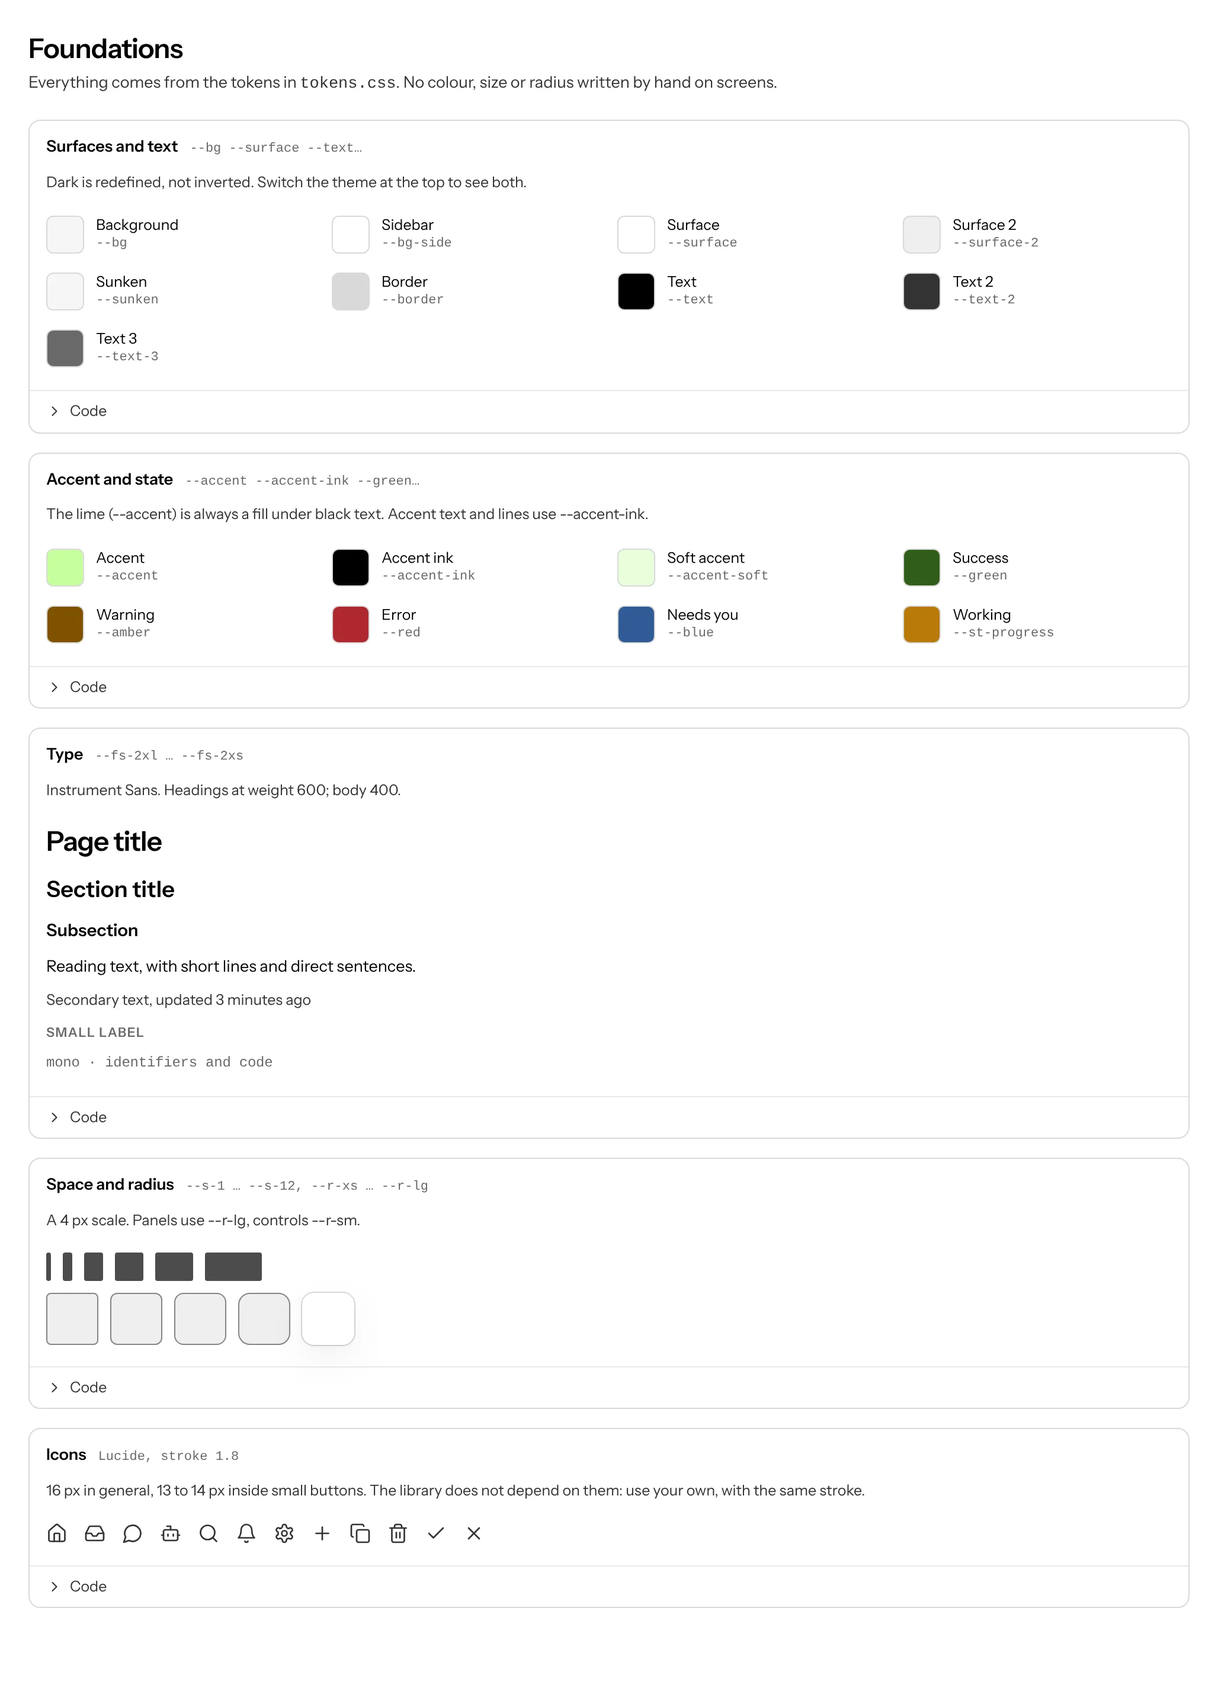
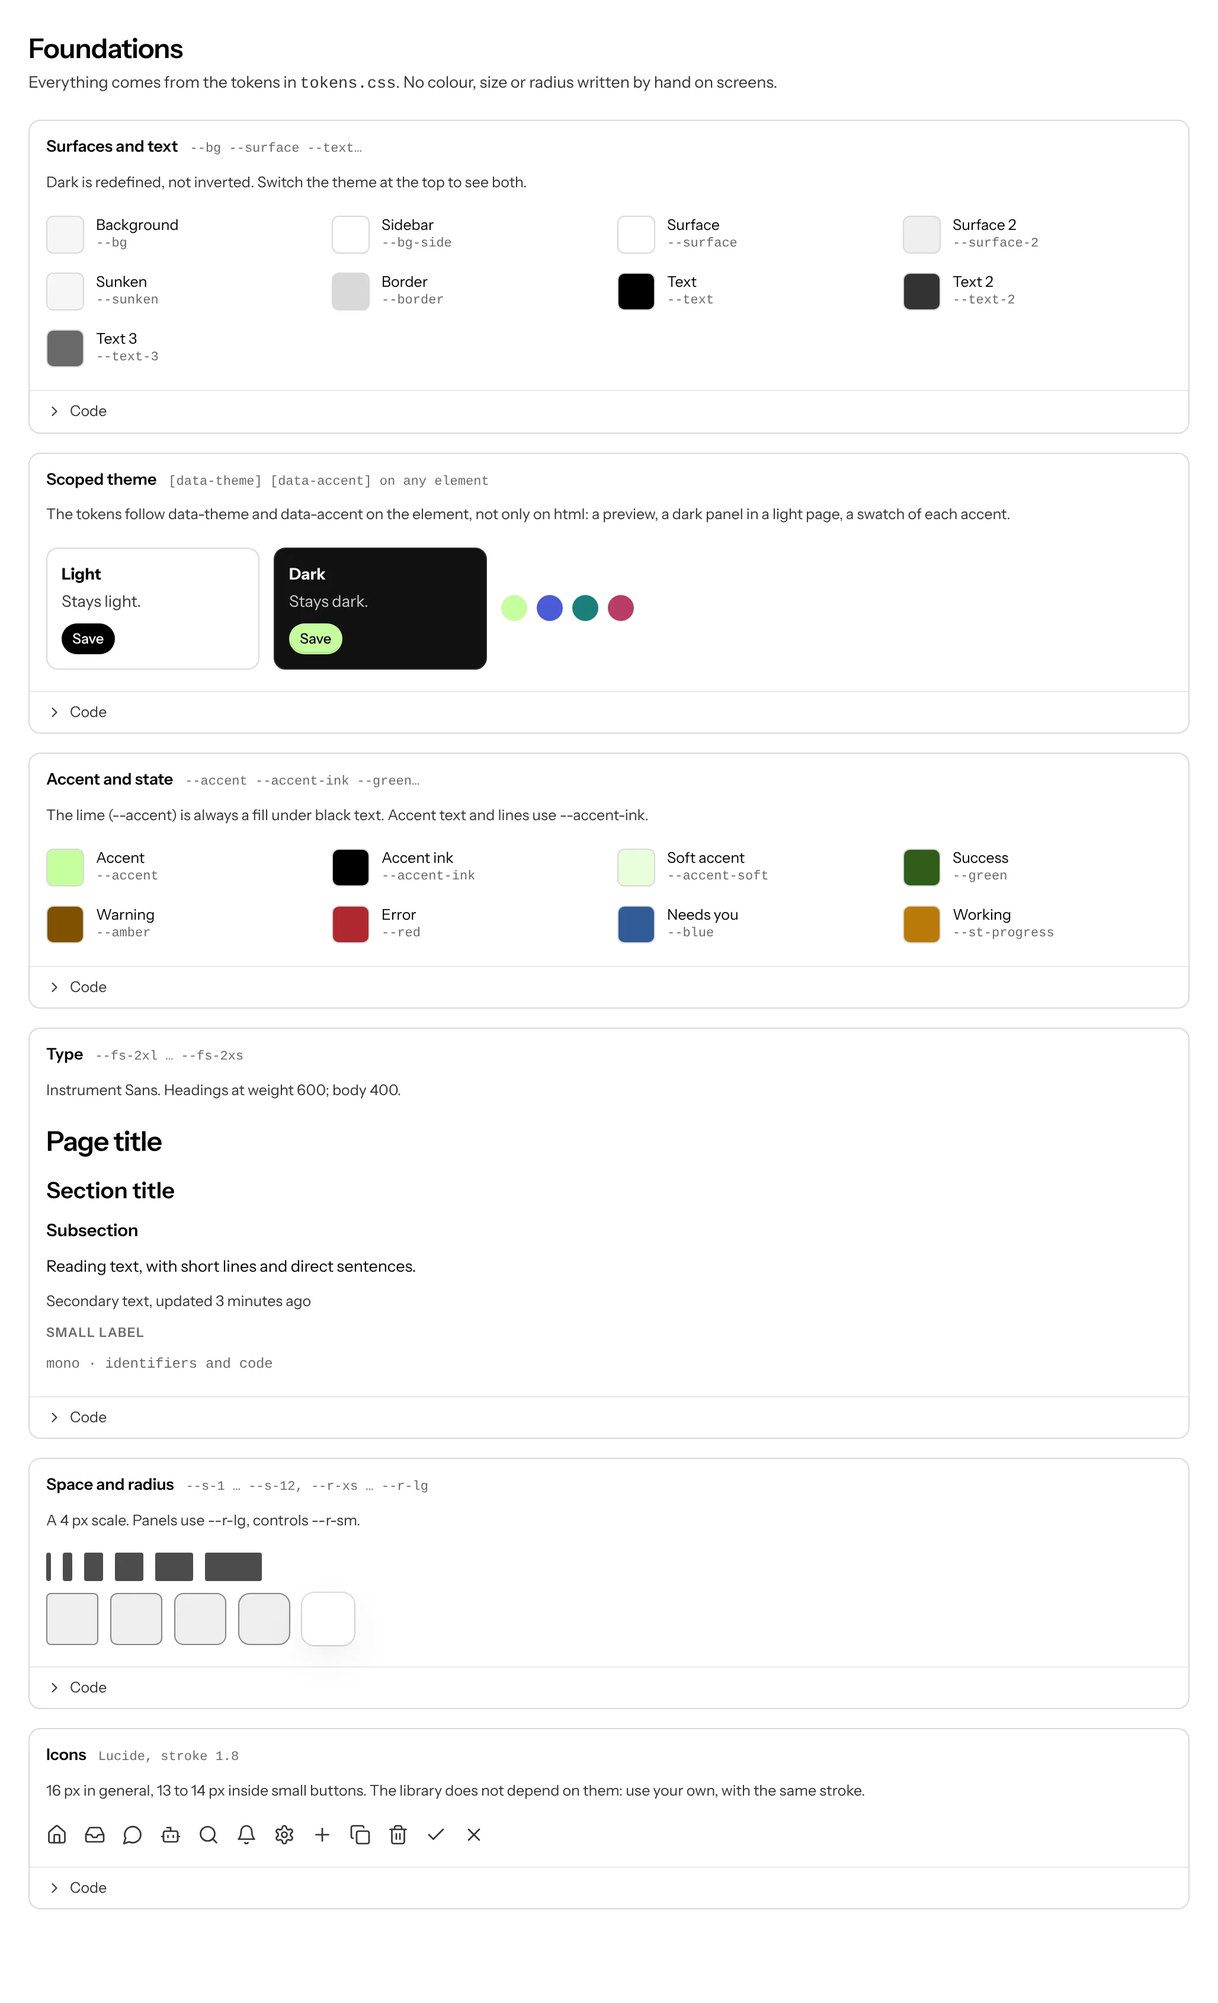
Scoped theme and accent; audit accepts .prog, grids and diff tables (0.2.1)
data-theme and data-accent work on any element, not only on html, so a theme preview, a dark panel in a light page or a row of accent swatches is drawn from the tokens. Audit: R08 compares colours inside such an element with that theme's tokens; R06 accepts role=progressbar on .prog; R15 skips table[role=grid] and table[role=presentation]. Catalog example on Foundations.

diff --git a/site/foundations.html b/site/foundations.html
@@ -51,6 +51,28 @@
   &lt;div class="ex-tok"&gt;&lt;i style="--c:var(--text-3)"&gt;&lt;/i&gt;&lt;span&gt;Text 3&lt;code&gt;--text-3&lt;/code&gt;&lt;/span&gt;&lt;/div&gt;
 &lt;/div&gt;</code></pre></details></section>
 
+  <section class="ex" id="scoped-theme"><div class="ex-h"><h3>Scoped theme</h3><code class="faint">[data-theme] [data-accent] on any element</code><p>The tokens follow data-theme and data-accent on the element, not only on html: a preview, a dark panel in a light page, a swatch of each accent.</p></div><div class="ex-demo ">
+  <div class="row" style="gap:12px;flex-wrap:wrap;align-items:stretch">
+    <div class="panel" data-theme="light" style="width:180px;padding:12px;background:var(--surface);color:var(--text)"><b>Light</b><p class="muted" style="margin:4px 0 8px">Stays light.</p><span class="btn btn-sm btn-primary">Save</span></div>
+    <div class="panel" data-theme="dark" style="width:180px;padding:12px;background:var(--surface);color:var(--text)"><b>Dark</b><p class="muted" style="margin:4px 0 8px">Stays dark.</p><span class="btn btn-sm btn-primary">Save</span></div>
+    <div class="row" style="gap:8px;align-items:center">
+      <span data-accent="hypercube" style="display:inline-block;width:22px;height:22px;border-radius:50%;background:var(--acc-l)" role="img" aria-label="Hypercube"></span>
+      <span data-accent="indigo" style="display:inline-block;width:22px;height:22px;border-radius:50%;background:var(--acc-l)" role="img" aria-label="Indigo"></span>
+      <span data-accent="teal" style="display:inline-block;width:22px;height:22px;border-radius:50%;background:var(--acc-l)" role="img" aria-label="Teal"></span>
+      <span data-accent="rose" style="display:inline-block;width:22px;height:22px;border-radius:50%;background:var(--acc-l)" role="img" aria-label="Rose"></span>
+    </div>
+  </div>
+  </div><details class="ex-code"><summary><svg class="i" width="14" height="14" viewBox="0 0 24 24" fill="none" stroke="currentColor" stroke-width="1.8" stroke-linecap="round" stroke-linejoin="round" aria-hidden="true"><path d="m9 18 6-6-6-6"/></svg>Code</summary><div class="row" style="padding:0 14px 6px"><span class="sp"></span><button class="btn btn-xs btn-ghost" data-copy>Copy</button></div><pre><code>&lt;div class="row" style="gap:12px;flex-wrap:wrap;align-items:stretch"&gt;
+  &lt;div class="panel" data-theme="light" style="width:180px;padding:12px;background:var(--surface);color:var(--text)"&gt;&lt;b&gt;Light&lt;/b&gt;&lt;p class="muted" style="margin:4px 0 8px"&gt;Stays light.&lt;/p&gt;&lt;span class="btn btn-sm btn-primary"&gt;Save&lt;/span&gt;&lt;/div&gt;
+  &lt;div class="panel" data-theme="dark" style="width:180px;padding:12px;background:var(--surface);color:var(--text)"&gt;&lt;b&gt;Dark&lt;/b&gt;&lt;p class="muted" style="margin:4px 0 8px"&gt;Stays dark.&lt;/p&gt;&lt;span class="btn btn-sm btn-primary"&gt;Save&lt;/span&gt;&lt;/div&gt;
+  &lt;div class="row" style="gap:8px;align-items:center"&gt;
+    &lt;span data-accent="hypercube" style="display:inline-block;width:22px;height:22px;border-radius:50%;background:var(--acc-l)" role="img" aria-label="Hypercube"&gt;&lt;/span&gt;
+    &lt;span data-accent="indigo" style="display:inline-block;width:22px;height:22px;border-radius:50%;background:var(--acc-l)" role="img" aria-label="Indigo"&gt;&lt;/span&gt;
+    &lt;span data-accent="teal" style="display:inline-block;width:22px;height:22px;border-radius:50%;background:var(--acc-l)" role="img" aria-label="Teal"&gt;&lt;/span&gt;
+    &lt;span data-accent="rose" style="display:inline-block;width:22px;height:22px;border-radius:50%;background:var(--acc-l)" role="img" aria-label="Rose"&gt;&lt;/span&gt;
+  &lt;/div&gt;
+&lt;/div&gt;</code></pre></details></section>
+
   <section class="ex" id="accent-and-state"><div class="ex-h"><h3>Accent and state</h3><code class="faint">--accent --accent-ink --green…</code><p>The lime (--accent) is always a fill under black text. Accent text and lines use --accent-ink.</p></div><div class="ex-demo ">
   <div class="ex-grid">
     <div class="ex-tok"><i style="--c:var(--accent)"></i><span>Accent<code>--accent</code></span></div>

diff --git a/audit/audit.js b/audit/audit.js
@@ -42,7 +42,10 @@
   };
 
   // every colour token the page defines on :root, resolved to rgb in the current theme
-  function palette() {
+  const palettes = new Map();
+  // the tokens' colours as the browser resolves them in `scope` (the body, or an element with its own data-theme)
+  function palette(scope = document.body) {
+    if (palettes.has(scope)) return palettes.get(scope);
     const names = new Set();
     const walk = rules => {
       for (const r of rules) {
@@ -56,7 +59,7 @@
     }
     const probe = document.createElement('i');
     probe.style.display = 'none';
-    document.body.append(probe);
+    scope.append(probe);
     const set = new Set(['0,0,0:0']);
     for (const n of names) {
       probe.style.color = '';
@@ -65,6 +68,7 @@
       if (probe.style.color && v) set.add(channels(v));
     }
     probe.remove();
+    palettes.set(scope, { set, count: names.size });
     return { set, count: names.size };
   }
 
@@ -128,7 +132,7 @@
       const s = getComputedStyle(el);
       if (s.animationName !== 'none' && s.animationIterationCount === 'infinite' && /rotate|spin/i.test(s.animationName + ' ' + s.transform) && shown(el)) spin.push(`${name(el)}: endless ${s.animationName} animation`);
     }
-    if (document.querySelector('[role="progressbar"]:not(.progress):not(.hc-loader)')) spin.push('role="progressbar" outside .progress');
+    if (document.querySelector('[role="progressbar"]:not(.prog):not(.progress):not(.hc-loader)')) spin.push('role="progressbar" outside .prog');
     add('R06', 'error', 'Loading uses only .hc-loader (or .is-loading / .is-busy)', spin);
 
     // R07 no literal colours in style attributes
@@ -143,10 +147,11 @@
     // R08 every colour on screen comes from a token
     const off = [];
     if (loaded) {
-      const { set } = palette();
       const seen = new Set();
       for (const el of all('body *')) {
         if (!shown(el) || el.closest(TINTED)) continue;
+        const scope = el.closest('[data-theme], [data-accent]');
+        const { set } = palette(scope && scope !== document.documentElement ? scope : document.body);
         const s = getComputedStyle(el);
         const check = (prop, v) => {
           const c = channels(v);
@@ -217,6 +222,7 @@
     // R15 tables
     const tb = [];
     for (const t of all('table')) {
+      if (t.matches('[role="grid"], [role="presentation"]')) continue; // an editable grid, or code laid out in a table (a diff)
       if (!t.classList.contains('hc-table')) { tb.push(`${name(t)}: use table.hc-table`); continue; }
       const cell = t.querySelector('tbody td:not([data-label]):not(.hc-t-main):not([colspan])');
       if (cell) tb.push(`${name(t)}: td without data-label (phones show it as a card)`);

diff --git a/site/hc/tokens.css b/site/hc/tokens.css
@@ -12,7 +12,8 @@
   font-style: normal;
   font-display: swap;
 }
-:root {
+:root,
+[data-theme='light'] {
   /* surfaces */
   --bg: #f6f6f6;
   --bg-side: #ffffff;
@@ -186,7 +187,7 @@
     color-scheme: dark;
   }
 }
-:root[data-theme='dark'] {
+[data-theme='dark'] {
   --bg: #0a0a0a;
   --bg-side: #0a0a0a;
   --surface: #121212;
@@ -234,13 +235,25 @@
   --shadow-drag: 0 18px 40px -10px rgba(0, 0, 0, 0.7), 0 0 0 1px var(--border-strong);
   color-scheme: dark;
 }
+/* The theme and the accent follow data-theme and data-accent on <html>, or on any element: a card, a preview or a panel
+   can be light, dark or of another accent on its own, with the same tokens. */
+[data-accent='hypercube'] {
+  --acc-l: #c7ff9f;
+  --acc-d: #c7ff9f;
+  --acc-ink-l: #000000;
+  --acc-ink-d: #c7ff9f;
+  --on-acc-l: #000000;
+  --on-acc-d: #000000;
+  --acc-soft-l: #e9ffdc;
+  --acc-soft-d: color-mix(in srgb, #c7ff9f 14%, transparent);
+}
 /* accent variants (coloured accents keep white text on the fill and use the colour itself as ink) */
-:root[data-accent='indigo'],
-:root[data-accent='blue'],
-:root[data-accent='violet'],
-:root[data-accent='teal'],
-:root[data-accent='rose'],
-:root[data-accent='graphite'] {
+[data-accent='indigo'],
+[data-accent='blue'],
+[data-accent='violet'],
+[data-accent='teal'],
+[data-accent='rose'],
+[data-accent='graphite'] {
   --acc-ink-l: var(--acc-l);
   --acc-ink-d: var(--acc-d);
   --on-acc-l: #ffffff;
@@ -248,27 +261,27 @@
   --acc-soft-l: color-mix(in srgb, var(--acc-l) 10%, transparent);
   --acc-soft-d: color-mix(in srgb, var(--acc-d) 12%, transparent);
 }
-:root[data-accent='indigo'] {
+[data-accent='indigo'] {
   --acc-l: #4b5bd6;
   --acc-d: #8e9af3;
 }
-:root[data-accent='blue'] {
+[data-accent='blue'] {
   --acc-l: #2f6cd4;
   --acc-d: #74a7f0;
 }
-:root[data-accent='violet'] {
+[data-accent='violet'] {
   --acc-l: #7348cc;
   --acc-d: #ae93f0;
 }
-:root[data-accent='teal'] {
+[data-accent='teal'] {
   --acc-l: #1a7f7a;
   --acc-d: #5cc4ba;
 }
-:root[data-accent='rose'] {
+[data-accent='rose'] {
   --acc-l: #b93d68;
   --acc-d: #ec8dae;
 }
-:root[data-accent='graphite'] {
+[data-accent='graphite'] {
   --acc-l: #34332f;
   --acc-d: #d9d6cf;
 }

diff --git a/src/tokens.css b/src/tokens.css
@@ -12,7 +12,8 @@
   font-style: normal;
   font-display: swap;
 }
-:root {
+:root,
+[data-theme='light'] {
   /* surfaces */
   --bg: #f6f6f6;
   --bg-side: #ffffff;
@@ -186,7 +187,7 @@
     color-scheme: dark;
   }
 }
-:root[data-theme='dark'] {
+[data-theme='dark'] {
   --bg: #0a0a0a;
   --bg-side: #0a0a0a;
   --surface: #121212;
@@ -234,13 +235,25 @@
   --shadow-drag: 0 18px 40px -10px rgba(0, 0, 0, 0.7), 0 0 0 1px var(--border-strong);
   color-scheme: dark;
 }
+/* The theme and the accent follow data-theme and data-accent on <html>, or on any element: a card, a preview or a panel
+   can be light, dark or of another accent on its own, with the same tokens. */
+[data-accent='hypercube'] {
+  --acc-l: #c7ff9f;
+  --acc-d: #c7ff9f;
+  --acc-ink-l: #000000;
+  --acc-ink-d: #c7ff9f;
+  --on-acc-l: #000000;
+  --on-acc-d: #000000;
+  --acc-soft-l: #e9ffdc;
+  --acc-soft-d: color-mix(in srgb, #c7ff9f 14%, transparent);
+}
 /* accent variants (coloured accents keep white text on the fill and use the colour itself as ink) */
-:root[data-accent='indigo'],
-:root[data-accent='blue'],
-:root[data-accent='violet'],
-:root[data-accent='teal'],
-:root[data-accent='rose'],
-:root[data-accent='graphite'] {
+[data-accent='indigo'],
+[data-accent='blue'],
+[data-accent='violet'],
+[data-accent='teal'],
+[data-accent='rose'],
+[data-accent='graphite'] {
   --acc-ink-l: var(--acc-l);
   --acc-ink-d: var(--acc-d);
   --on-acc-l: #ffffff;
@@ -248,27 +261,27 @@
   --acc-soft-l: color-mix(in srgb, var(--acc-l) 10%, transparent);
   --acc-soft-d: color-mix(in srgb, var(--acc-d) 12%, transparent);
 }
-:root[data-accent='indigo'] {
+[data-accent='indigo'] {
   --acc-l: #4b5bd6;
   --acc-d: #8e9af3;
 }
-:root[data-accent='blue'] {
+[data-accent='blue'] {
   --acc-l: #2f6cd4;
   --acc-d: #74a7f0;
 }
-:root[data-accent='violet'] {
+[data-accent='violet'] {
   --acc-l: #7348cc;
   --acc-d: #ae93f0;
 }
-:root[data-accent='teal'] {
+[data-accent='teal'] {
   --acc-l: #1a7f7a;
   --acc-d: #5cc4ba;
 }
-:root[data-accent='rose'] {
+[data-accent='rose'] {
   --acc-l: #b93d68;
   --acc-d: #ec8dae;
 }
-:root[data-accent='graphite'] {
+[data-accent='graphite'] {
   --acc-l: #34332f;
   --acc-d: #d9d6cf;
 }

diff --git a/catalog/pages/foundations.html b/catalog/pages/foundations.html
@@ -16,6 +16,19 @@
   </div>
   <!-- /ex -->
 
+  <!-- ex: Scoped theme | [data-theme] [data-accent] on any element | The tokens follow data-theme and data-accent on the element, not only on html: a preview, a dark panel in a light page, a swatch of each accent. -->
+  <div class="row" style="gap:12px;flex-wrap:wrap;align-items:stretch">
+    <div class="panel" data-theme="light" style="width:180px;padding:12px;background:var(--surface);color:var(--text)"><b>Light</b><p class="muted" style="margin:4px 0 8px">Stays light.</p><span class="btn btn-sm btn-primary">Save</span></div>
+    <div class="panel" data-theme="dark" style="width:180px;padding:12px;background:var(--surface);color:var(--text)"><b>Dark</b><p class="muted" style="margin:4px 0 8px">Stays dark.</p><span class="btn btn-sm btn-primary">Save</span></div>
+    <div class="row" style="gap:8px;align-items:center">
+      <span data-accent="hypercube" style="display:inline-block;width:22px;height:22px;border-radius:50%;background:var(--acc-l)" role="img" aria-label="Hypercube"></span>
+      <span data-accent="indigo" style="display:inline-block;width:22px;height:22px;border-radius:50%;background:var(--acc-l)" role="img" aria-label="Indigo"></span>
+      <span data-accent="teal" style="display:inline-block;width:22px;height:22px;border-radius:50%;background:var(--acc-l)" role="img" aria-label="Teal"></span>
+      <span data-accent="rose" style="display:inline-block;width:22px;height:22px;border-radius:50%;background:var(--acc-l)" role="img" aria-label="Rose"></span>
+    </div>
+  </div>
+  <!-- /ex -->
+
   <!-- ex: Accent and state | --accent --accent-ink --green… | The lime (--accent) is always a fill under black text. Accent text and lines use --accent-ink. -->
   <div class="ex-grid">
     <div class="ex-tok"><i style="--c:var(--accent)"></i><span>Accent<code>--accent</code></span></div>

diff --git a/AUDIT.md b/AUDIT.md
@@ -66,16 +66,16 @@ node scripts/audit.mjs --src ../my-app \
 | R03 | error | `<meta name="viewport" content="width=device-width, …">` | Add it to the HTML head. |
 | R04 | error | No horizontal scroll (`scrollWidth <= innerWidth`) | The details name the elements past the edge: use `.trunc`, `min-width: 0`, `.hide-m`, or the phone layout of the piece. |
 | R05 | error | App shell: `.shell` > `.side` + `.main` > `.topbar` + `.content` (or `.hc-split`); the window itself never scrolls, the shell fills it | Give `html`, `body` and the framework root `height: 100%`. |
-| R06 | error | No other spinner on screen: spinner classes, Lucide loader icons, loader GIFs, endless rotate animations, stray `role="progressbar"` | `.hc-loader`. |
+| R06 | error | No other spinner on screen: spinner classes, Lucide loader icons, loader GIFs, endless rotate animations, `role="progressbar"` outside `.prog` | `.hc-loader` for loading; `.prog` for progress. |
 | R07 | error | No literal colour in any `style=""` | `style="--c: var(--blue)"`. |
-| R08 | warn | Every text, background and border colour on screen equals a token in the current theme | Each detail is an off-token colour: swap it for a token. Category tints mixed from `--c` inside library pieces are allowed. |
+| R08 | warn | Every text, background and border colour on screen equals a token in the current theme (inside an element with its own `data-theme` or `data-accent`, a token of that theme) | Each detail is an off-token colour: swap it for a token. Category tints mixed from `--c` inside library pieces are allowed. |
 | R09 | error | Every icon-only button and link has an accessible name | `aria-label` (and `data-tip`). |
 | R10 | error | Every field has a label | `<label for>`, or `aria-label` for a search box. |
 | R11 | error | Every open `.modal` and `.drawer` has `role="dialog"`, `aria-modal="true"`, `aria-labelledby` | Add the attributes. Run the audit with each overlay open. |
 | R12 | warn | One enabled primary button per area (panel, modal, form, header, section) | Make the others `.btn-secondary` or `.btn-ghost`. |
 | R13 | warn | Icons are Lucide SVGs at stroke 1.8; no icon fonts | Swap the icon. |
 | R14 | error | No other UI library drawing on the page (`--bs-*` variables, `Mui*`, `chakra-*`, `ant-*`, `mantine-*` classes…) | Migrate the piece. |
-| R15 | error | Tables are `table.hc-table` and every body cell has `data-label` (`.hc-t-main` excepted) | Add the class and labels; phones show each row as a card. |
+| R15 | error | Tables are `table.hc-table` and every body cell has `data-label` (`.hc-t-main` excepted). An editable grid (`table[role="grid"]`, with its own keyboard model) and code laid out in a table (`table[role="presentation"]`, a diff) are not data tables and are skipped | Add the class and labels; phones show each row as a card. |
 | R16 | error | Phones: buttons in bars at least 40 px; fields at 16 px text on touch screens | Use the library's buttons and fields; do not shrink them. |
 | R17 | error | Menu: `.hc-brand` with the product logo (or `.hc-switch` when the app has workspaces, organisations or products), one `aria-current="page"`, no link that goes nowhere | Link it, or `aria-disabled="true"` for what the server does not do yet. |
 | R18 | warn | One `h1` per screen | When the design shows no title (a canvas), add `<h1 class="sr">`. |

diff --git a/AGENTS.md b/AGENTS.md
@@ -68,7 +68,7 @@ Follow the order. Do not skip the check at the end.
 | A picker of workspace, organisation, product or tenant (a `<select>`, a dropdown in the top bar, a box inside a page) | `button.hc-switch` in `.side-top` (logo, name, up-down chevrons) + `.pop.hc-switch-menu` with `.mi[role=menuitemradio]` per choice, the current one `aria-checked="true"` with `.ck`, then settings / create / invite. The "Context switcher" in `components.json` |
 | Text size, "the app looks too small/big" | `<hc-zoom class="hc-zoom">` (Adjust screen) in `.side-bot`; never change the tokens for one person's taste |
 | Menu item that does not work yet | `.sitem[aria-disabled=true]` (or remove it, if the person agrees) |
-| Table | `table.hc-table` with `td[data-label]` (turns into cards at 640 px) |
+| Table | `table.hc-table` with `td[data-label]` (turns into cards at 640 px). An editable grid keeps `role="grid"` and scrolls sideways; code in a table (a diff) is `role="presentation"` |
 | List + detail (email, chat, support) | `.hc-split` > `.hc-list` + `.hc-main` (+ `.hc-aside`) |
 | Chat | `.hc-msgs` > `.hc-msgs-in` > `.hc-m` (`.mine` for yours) + `.hc-foot` > `form.hc-composer` |
 | Settings | `.hc-set` > `.hc-set-nav` + `.hc-set-in`, rows `.hc-srow` |
@@ -164,6 +164,8 @@ Sizes in `tokens.css` are the same for everyone. When a person wants the app big
 ## Light and dark theme
 
 With nothing set, it follows the system. To force one, set `data-theme="light"` or `data-theme="dark"` on `<html>`. To keep the choice, save it in `localStorage` and apply it before drawing (see `catalog/theme.js`).
+
+The same attribute on any element scopes the theme to it: a theme preview, a dark panel in a light page, a card that stays light. `data-accent` works the same way (`hypercube`, `indigo`, `blue`, `violet`, `teal`, `rose`, `graphite`), so a row of accent swatches can be drawn from the tokens: each swatch carries its `data-accent` and paints `var(--acc-l)`.
 
 ## Checklist (before saying you are done)
 

diff --git a/CHANGELOG.md b/CHANGELOG.md
@@ -2,6 +2,8 @@
 
 ## 0.2.1 (tagged 2026-11-15)
 
+- Scoped theme and accent: `data-theme` and `data-accent` work on any element, not only on `<html>`, so a theme preview, a dark panel in a light page or a row of accent swatches is drawn from the tokens (`[data-accent='hypercube']` restores the lime). Audit R08 compares colours inside such an element with that theme's tokens. Found in Meetas, whose theme cards used literal colours.
+- Audit: R06 accepts `role="progressbar"` on the library's own `.prog`; R15 skips an editable grid (`table[role="grid"]`) and code laid out in a table (`table[role="presentation"]`, a diff), which are not data tables.
 - State dot (`.hc-ring[data-state] .hc-dot`): a dot in the corner of the status ring, in the ring's colour, for small avatars in tight rows such as a menu item, where the ring alone is hard to read. Audit R26 checks it only appears inside a ring with a state. Found in Meetas, whose bots menu drew it locally.
 - Audit: S13 fails when an app uses the lime accent as a text colour (`color: var(--accent)` in CSS or `style=""`); links and accent text use `--accent-ink`. Found in Meetas, where task links in comments were lime.
 - Needs you (`.hc-need`): the answers sit under the question instead of in a third column. Long answers no longer squeeze the question into a narrow column, and answer buttons wrap their text instead of spilling out of the card on phones.
